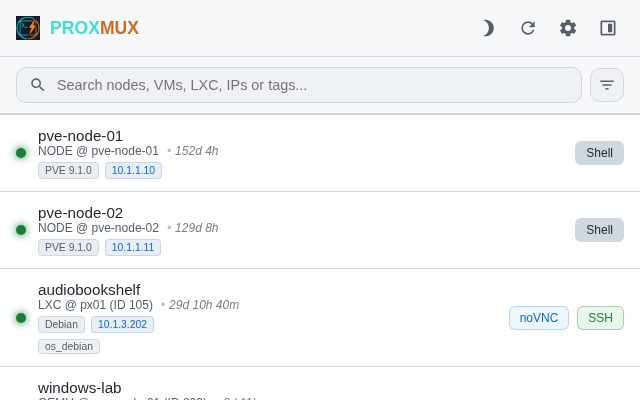
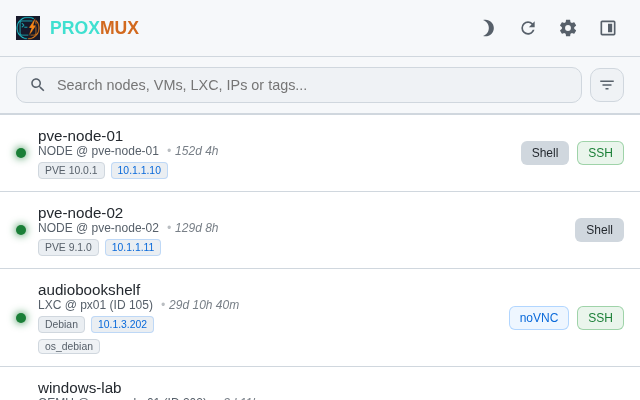
chore: prepare v1.1.4 release

Changed region(s): [[0.8125, 0.33, 1.0, 0.42], [0.0938, 0.39, 0.2812, 0.45]]

diff --git a/store/mock/mock.html b/store/mock/mock.html
@@ -104,9 +104,9 @@
                             <span class="node">NODE @ pve-node-01</span>
                             <span class="uptime">152d 4h</span>
                         </div>
-                        <div class="meta-tags"><span class="tag os">PVE 9.1.0</span><span class="tag ip">10.1.1.10</span></div>
+                        <div class="meta-tags"><span class="tag os">PVE 10.0.1</span><span class="tag ip">10.1.1.10</span></div>
                     </div>
-                    <div class="actions"><button class="action-btn shell">Shell</button></div>
+                    <div class="actions"><button class="action-btn shell">Shell</button><button class="action-btn ssh">SSH</button></div>
                 </div>
                 <div class="resource-item">
                     <div class="status-indicator status-running"></div>
@@ -118,7 +118,7 @@
                         </div>
                         <div class="meta-tags"><span class="tag os">PVE 9.1.0</span><span class="tag ip">10.1.1.11</span></div>
                     </div>
-                    <div class="actions"><button class="action-btn shell">Shell</button></div>
+                    <div class="actions"><button class="action-btn shell">Shell</button><button class="action-btn ssh">SSH</button></div>
                 </div>
                 <div class="resource-item">
                     <div class="status-indicator status-running"></div>

diff --git a/CHANGELOG.md b/CHANGELOG.md
@@ -5,6 +5,17 @@ All notable changes to this project will be documented in this file.
 The format is based on [Keep a Changelog](https://keepachangelog.com/en/1.0.0/),
 and this project adheres to [Semantic Versioning](https://semver.org/spec/v2.0.0.html).
 
+## [1.1.4] - 2026-03-14
+
+### Added
+- **Node Management**: Node resources now feature management IP addresses and direct SSH connectivity.
+- **Tab Management**: Added advanced tab behavior settings (Always New, Reuse Dedicated, or Focus Machine).
+- **Tab Duplicate Prevention**: Intelligently focuses existing console tabs for the same machine, reducing clutter (Default behavior).
+- **Console Experience**: Switched Node Shell and LXC consoles to `xterm.js` for native scaling and reliable copy/paste.
+
+### Fixed
+- German translations for missing tab management and shell settings.
+
 ## [1.1.3] - 2026-03-09
 
 ### Added
@@ -88,5 +99,6 @@ and this project adheres to [Semantic Versioning](https://semver.org/spec/v2.0.0
 [1.0.1]: https://github.com/d0dg3r/PROXMUX-Manager/compare/v1.0.0...v1.0.1
 [1.0.0]: https://github.com/d0dg3r/PROXMUX-Manager/compare/v1.0.0-beta.2...v1.0.0
 [1.0.0-beta.2]: https://github.com/d0dg3r/PROXMUX-Manager/releases/tag/v1.0.0-beta.2
+[1.1.4]: https://github.com/d0dg3r/PROXMUX-Manager/compare/v1.1.3...v1.1.4
 [1.1.3]: https://github.com/d0dg3r/PROXMUX-Manager/compare/v1.1.2...v1.1.3
 [1.1.2]: https://github.com/d0dg3r/PROXMUX-Manager/compare/v1.1.1...v1.1.2

diff --git a/README.md b/README.md
@@ -59,7 +59,14 @@ You can install PROXMUX Manager directly from the [Chrome Web Store](https://chr
 - Proxmox VE 6.x or newer.
 - API Token with appropriate permissions (VM.Console and Sys.Audit for node discovery).
 
-## Version 1.1.3 Release Notes (New!)
+## What's New in v1.1.4 🚀
+
+- **Node Management**: Nodes now display management IP addresses and offer direct SSH connectivity.
+- **Improved Terminal Experience**: Replaced noVNC with `xterm.js` for text-based shells (Node & LXC) for better scaling and clipboard support.
+- **Tab Behavior Settings**: Choose how console tabs are opened (New Tab, Reuse, or Focus Existing).
+- **Duplicate Prevention**: Intelligently focus existing console tabs for the same machine (Default).
+
+## Version 1.1.3 Release Notes
 - **Reliable Power State Sync**: Improved status refresh flow after start/stop/shutdown/reboot actions to avoid stale status rollbacks.
 - **Search Reset UX**: Added clear-search support in the popup search field plus keyboard reset with `Escape`.
 - **Top-Bar Layout Fix**: Fixed overlap issues between filter toggle and search clear control.
